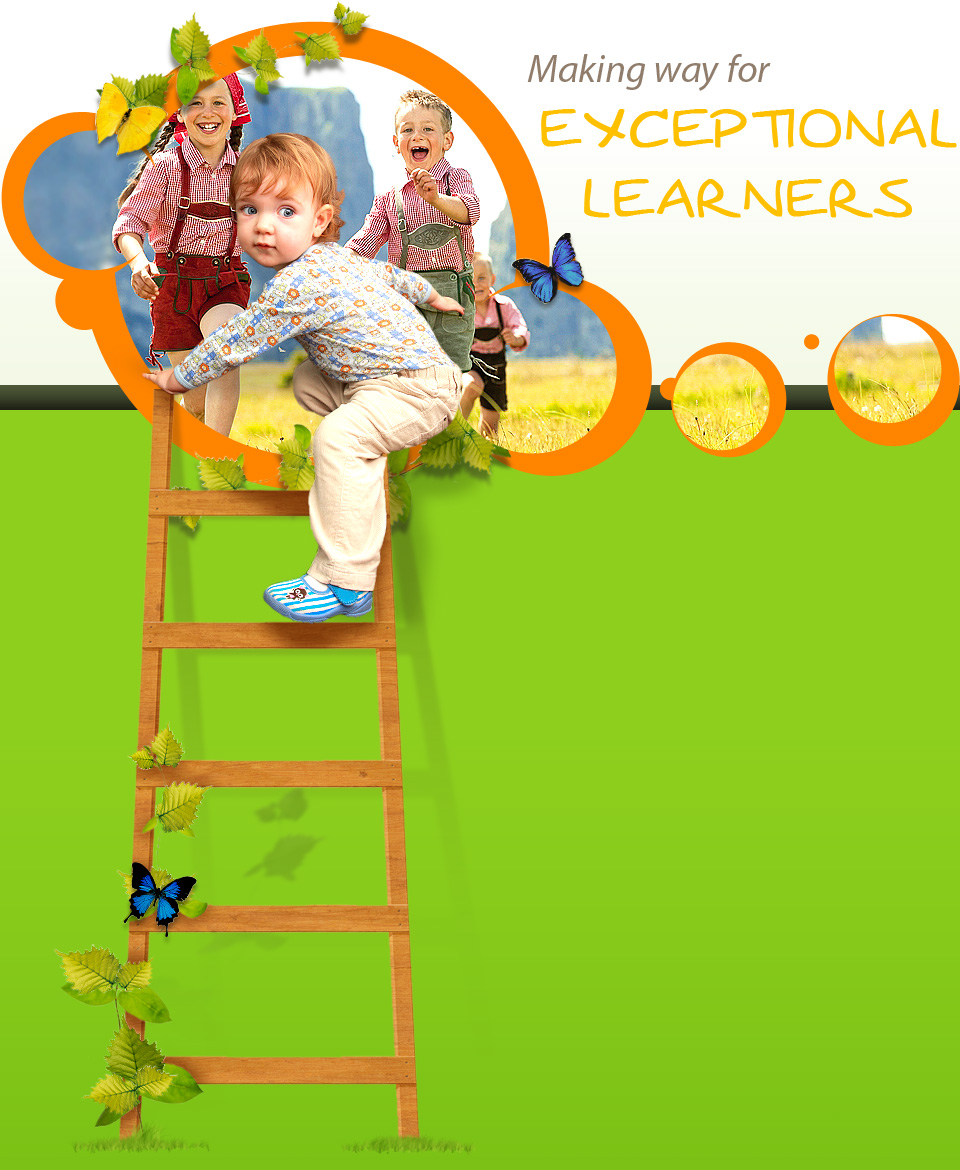
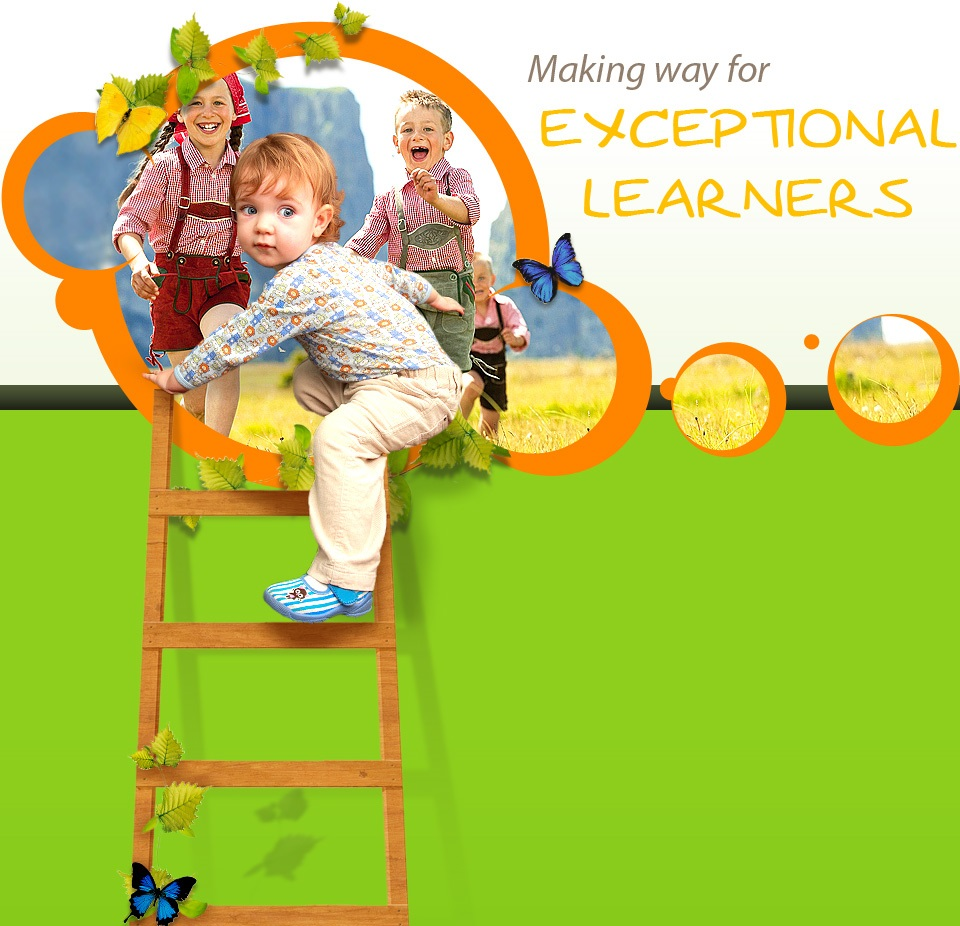
added images and courses

diff --git a/src/main/webapp/resources/css/style.css b/src/main/webapp/resources/css/style.css
@@ -58,7 +58,7 @@ img {
 }
 #content div {
 	background: url(../images/bg-homepage.jpg) no-repeat top center;
-	min-height: 1170px;
+	min-height: 960px;
 	margin: 0 auto;
 	overflow: hidden;
 	width: 960px;
